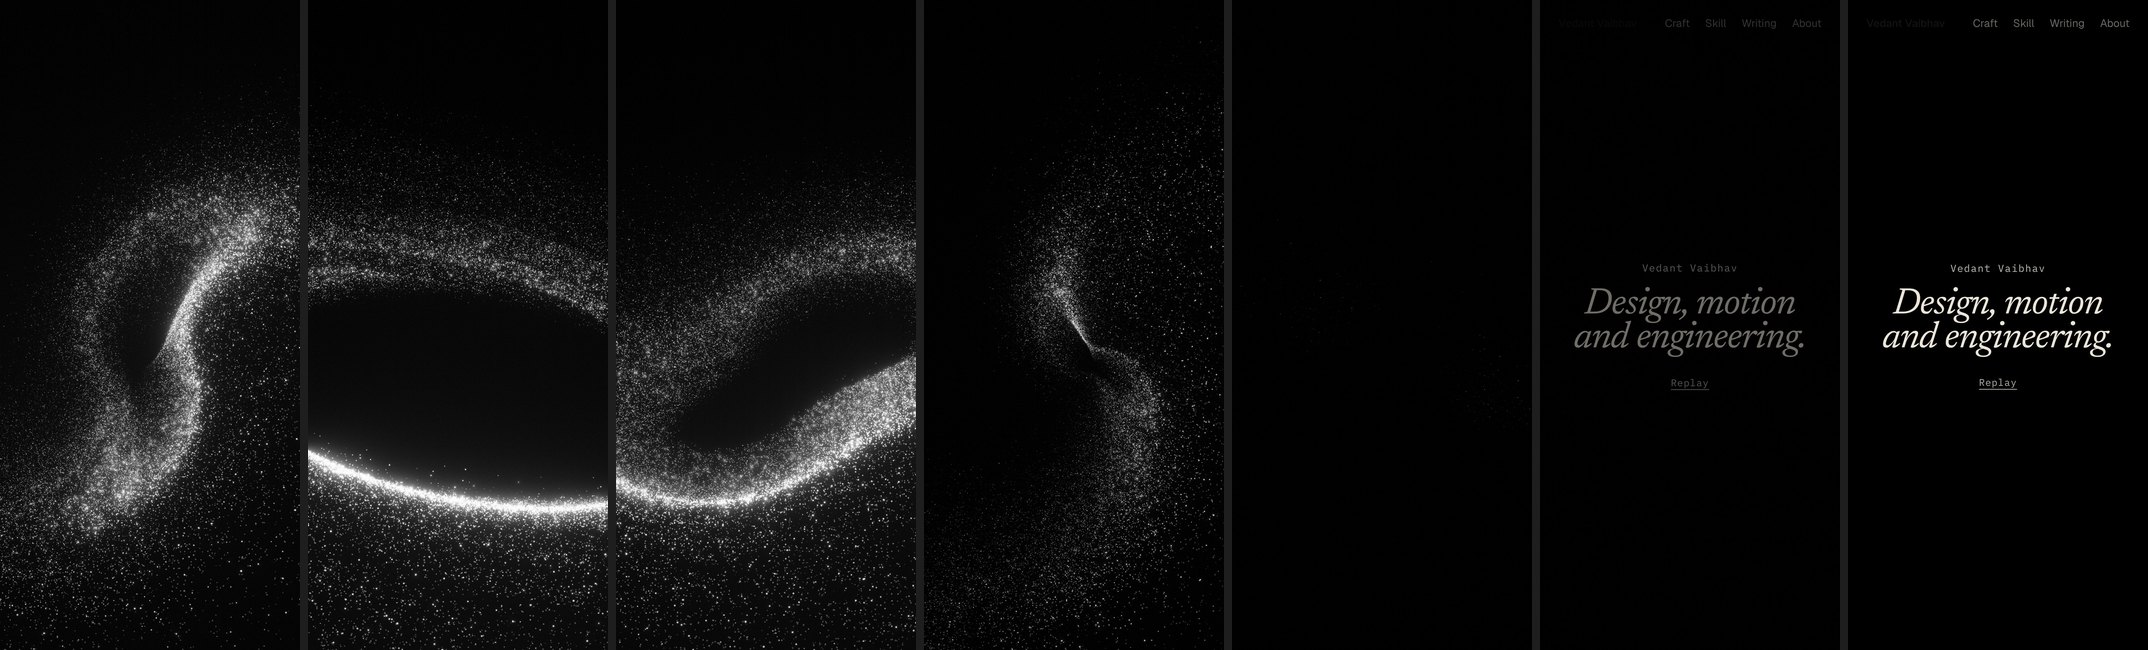
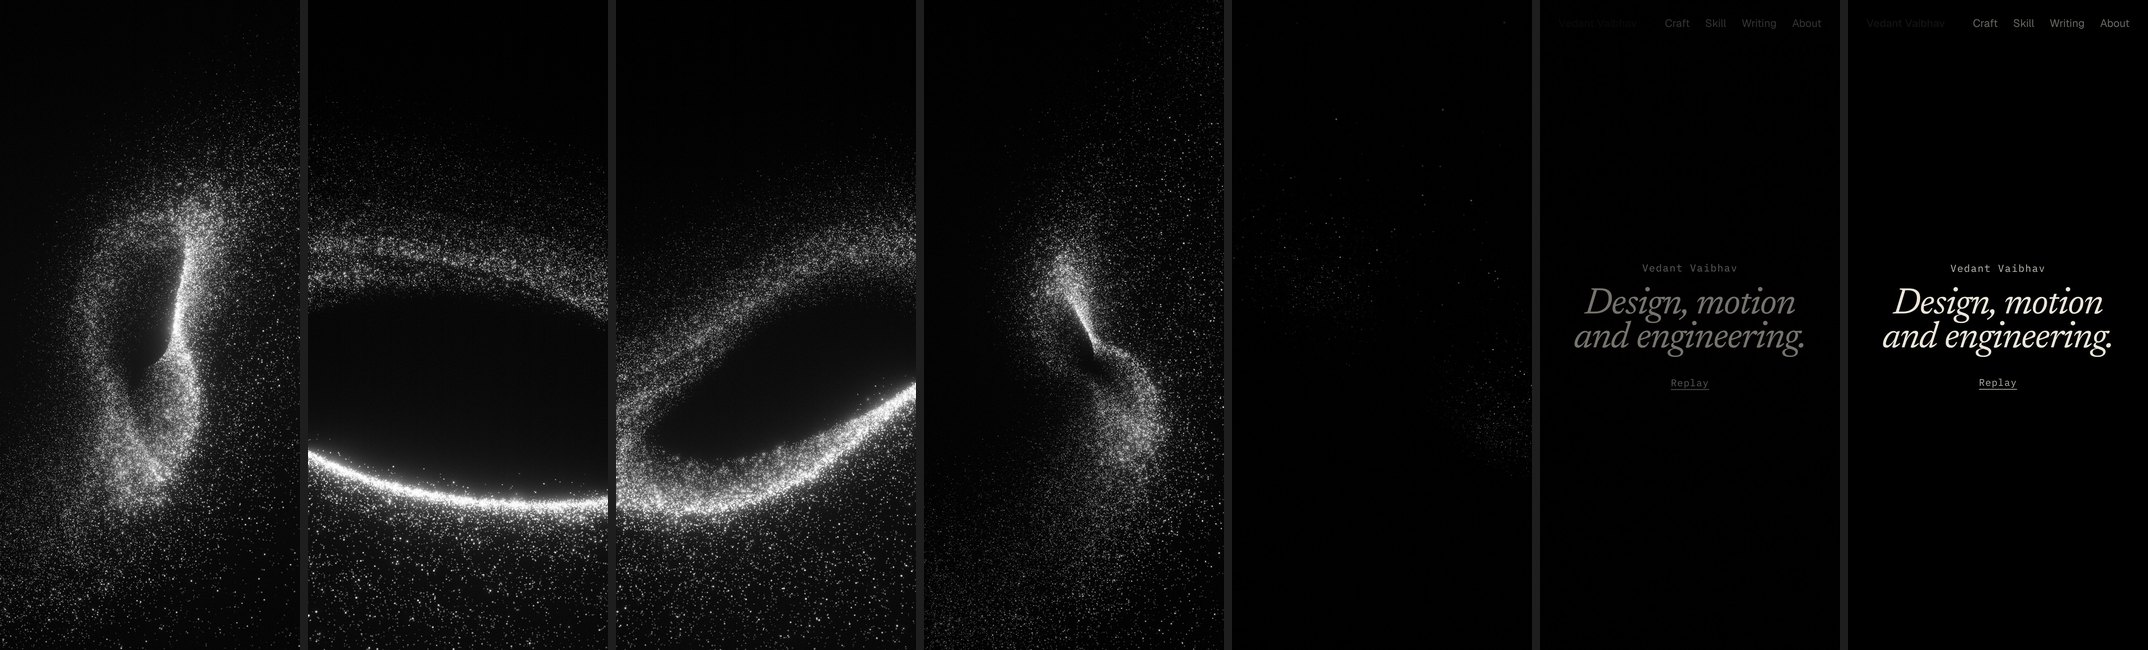
Portal: slow the drain and save the rush for the end
The grains now take 3.6 s to drain, up from 1.5 s. They drift toward
the point slowly for most of that and only rush in at the end. The
flow of the disc builds late in the same way. The frame holds black
for a moment before the site fades up, which now takes 1.5 s.

Claude-Session: https://claude.ai/code/session_01FgUW3BErGY7JJoFogNdhyC

Changed region(s): [[0.0, 0.2154, 0.5615, 1.0]]

diff --git a/src/portal/layers/wormhole.ts b/src/portal/layers/wormhole.ts
@@ -33,7 +33,7 @@ const VERTEX = /* glsl */ `
 attribute vec4 aLook;      // vary, dunes, glint, kind
 uniform float uClock, uSpan, uInner, uOuterX, uSwirl, uWell, uThickness, uSize;
 uniform float uPixelsPerUnit, uPixelRatio, uBrightAngle, uGain;
-uniform float uDrain, uDrainSwirl, uDrainTravel, uAspect;
+uniform float uDrain, uDrainSwirl, uDrainTravel, uDrainRush, uAspect;
 uniform vec2 uTarget;       // where the grains drain to, in screen space: -1 to 1 on each axis
 varying float vLight;
 const float TAU = 6.2831853;
@@ -70,16 +70,16 @@ void main(){
   if (uDrain > 0.) {
     vec2 screen = gl_Position.xy/gl_Position.w;
     vec2 away = (screen-uTarget)*vec2(uAspect, 1.);
-    float wait = 0.45*clamp(length(away)/1.6, 0., 1.)+0.25*vary;
-    float e = clamp(uDrain*1.7-wait, 0., 1.);
-    e = e*e*(3.-2.*e);
-    e *= e;                                              // slow to leave, then quick
+    float wait = 0.28*clamp(length(away)/1.6, 0., 1.)+0.14*vary;
+    float e = clamp(uDrain*1.42-wait, 0., 1.);
+    // A long, slow drift toward the point, and a rush at the very end.
+    e = pow(e, uDrainRush);
     float turn = e*uDrainSwirl*(0.5+vary);
     float cs = cos(turn), sn = sin(turn);
     away = vec2(away.x*cs-away.y*sn, away.x*sn+away.y*cs)*(1.-e*uDrainTravel);
     gl_Position.xy = (uTarget+away/vec2(uAspect, 1.))*gl_Position.w;
     size *= 1.-0.6*e;
-    gone = 1.-smoothstep(0.5, 1., e);
+    gone = 1.-smoothstep(0.62, 1., e);
   }
   gl_PointSize = min(size, 20.*uPixelRatio);
 
@@ -156,6 +156,7 @@ export class Wormhole {
         uDrain: { value: 0 },
         uDrainSwirl: { value: 0 },
         uDrainTravel: { value: 1 },
+        uDrainRush: { value: 3 },
         uAspect: { value: 1 },
         uTarget: { value: new Vector2() },
       },
@@ -187,6 +188,7 @@ export class Wormhole {
     u.uBrightAngle.value = (w.brightAngle * Math.PI) / 180;
     u.uDrainSwirl.value = config.drain.swirl;
     u.uDrainTravel.value = config.drain.travel;
+    u.uDrainRush.value = config.drain.rush;
     this.group.rotation.set((w.elevation * Math.PI) / 180, 0, (w.roll * Math.PI) / 180);
 
     // Phones draw about a third as many points, each a little brighter to keep the same weight.

diff --git a/src/portal/config.ts b/src/portal/config.ts
@@ -47,7 +47,10 @@ export const portalConfig = {
     // black. A scroll does it at the centre of the hole. A press and hold inside
     // the hole does it wherever the hold is, for as long as it is held; let go
     // early and the grains come back.
-    ms: 1500,
+    ms: 3600,
+    // How late the rush comes. 1 is an even pace. Higher keeps the grains slow for
+    // longer and saves the speed for the end.
+    rush: 3.2,
     // How far the grains turn around the point on the way in. Radians.
     swirl: 2.4,
     // How much of the way to the point they travel before they are gone. 1 is all the way, 0.3 is a slight pull.
@@ -60,8 +63,9 @@ export const portalConfig = {
     reach: 1.05,
   },
   appear: {
-    // Once the frame is black, the site comes up on that same black.
-    ms: 800,
+    // Once the frame is black it stays black for a moment, then the site comes up on it.
+    pauseMs: 300,
+    ms: 1500,
     // The page starts this much larger and settles to its true size.
     scale: 1.03,
   },

diff --git a/src/portal/ritual.ts b/src/portal/ritual.ts
@@ -30,10 +30,11 @@ export function buildDrain(fx: Fx, config: PortalConfig, hooks: Hooks) {
   // Each grain eases on its own in the shader, so the clock itself runs evenly.
   tl.to(fx, { drain: 1, duration: drain, ease: "none" }, 0);
 
+  const pause = config.appear.pauseMs / 1000;
   tl.addLabel("gone", drain)
     .call(hooks.onGone, undefined, "gone")
-    .to(fx, { cover: 0, duration: appear, ease: "power1.inOut" }, "gone")
-    .to(fx, { settle: 1, duration: appear, ease: "power2.out" }, "gone");
+    .to(fx, { cover: 0, duration: appear, ease: "sine.inOut" }, `gone+=${pause}`)
+    .to(fx, { settle: 1, duration: appear, ease: "power2.out" }, `gone+=${pause}`);
 
   return tl;
 }

diff --git a/src/portal/scene.ts b/src/portal/scene.ts
@@ -308,8 +308,8 @@ export class PortalScene {
     // The point the grains drain to follows the hold, a little behind it.
     this.target.lerp(this.aim, 1 - Math.exp(-dt * 10));
     this.wormhole.setDrain(fx.drain, this.target.x, this.target.y);
-    // Being drawn in speeds the whole disc up.
-    this.wormhole.update(dt * this.motion, dt, hole.flow * (1 + fx.drain * drain.pullBoost), 1);
+    // It builds late, like the grains themselves.
+    this.wormhole.update(dt * this.motion, dt, hole.flow * (1 + fx.drain * fx.drain * fx.drain * drain.pullBoost), 1);
     this.final.uniforms.uClock.value = this.clock;
 
     // The site comes up on the black the grains leave behind.
